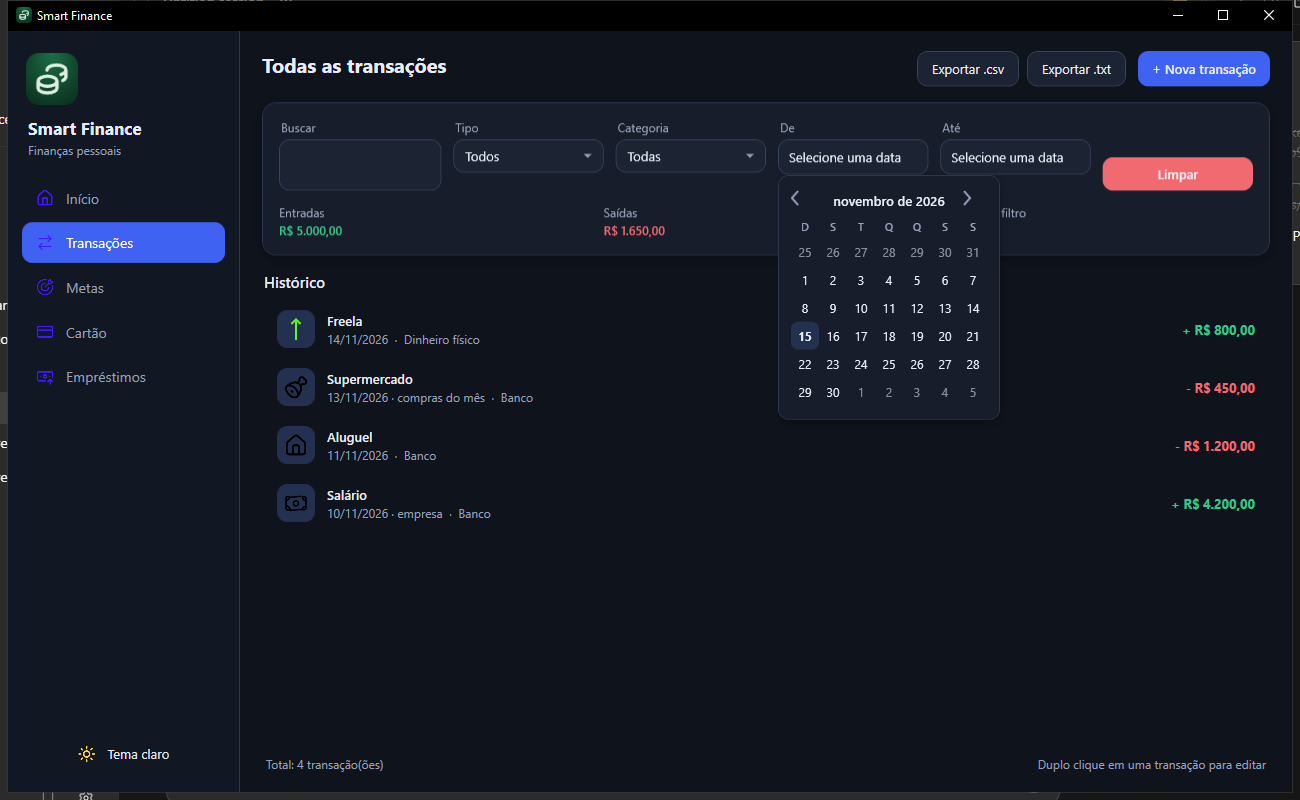
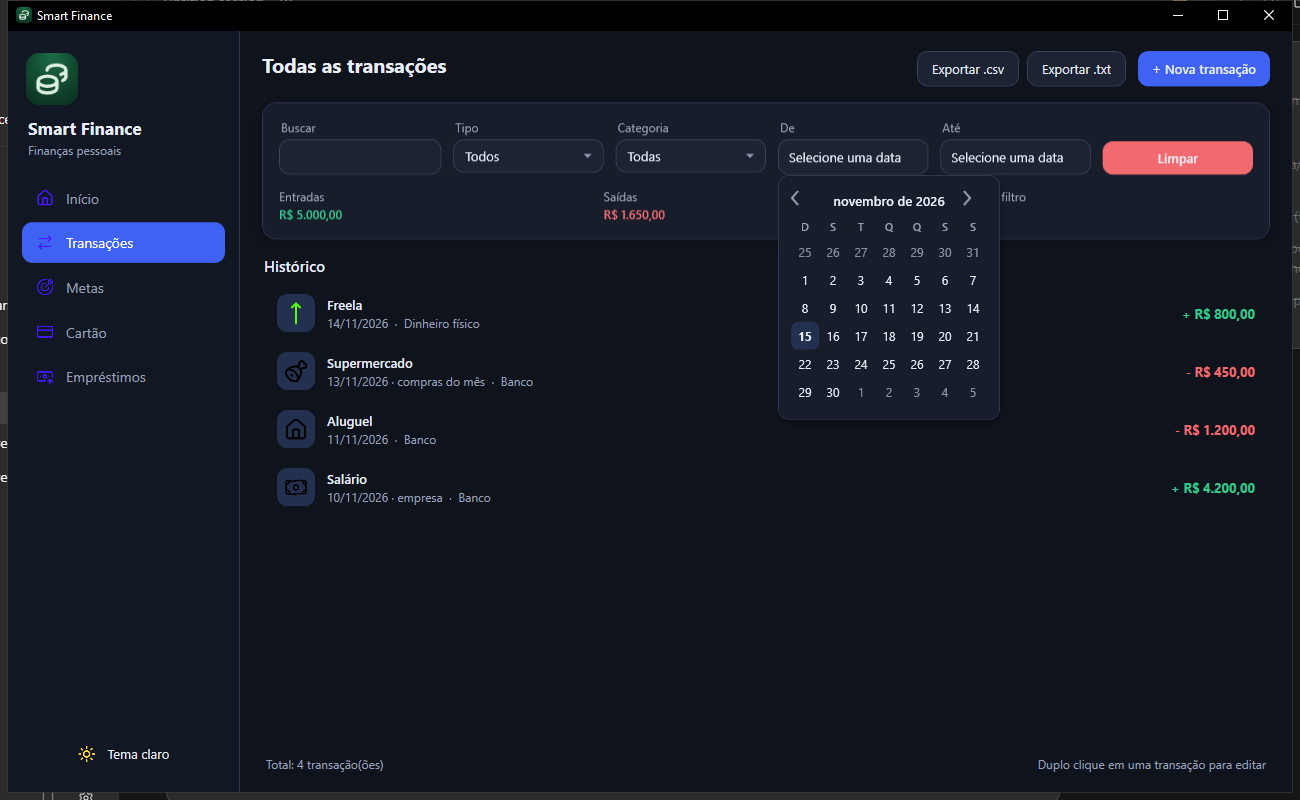
UI: uniform filter field heights and dialog button row (+ regression tests)
- TextBox template: do not re-apply Padding as Margin on PART_ContentHost;
  the internal TextBoxView already applies it, so the double application
  made single-line fields ~48px tall against ~30px of ComboBox/SeletorData
  in the same row (Buscar on the transactions screen, fields on dialogs).
- BotaoExcluir: base on BotaoSecundario (field look with border, red text)
  instead of the transparent button style, so Excluir sits on the same
  line and with the same size as Cancelar/Salvar in edit dialogs.
- AlinhamentoTests: UIA rectangle assertions for the filter row heights/
  alignment and for the edit-dialog button line (excluded from nothing;
  transaction is created through the UI because second-connection seeds
  are invisible to the app's open WAL connection).
- CapturaTests: pixel assertions on the calendar captures (popup card,
  today cell, date field) in both themes; capture the edit dialog too.

diff --git a/src/SmartFinance/Themes/Global.xaml b/src/SmartFinance/Themes/Global.xaml
@@ -151,7 +151,9 @@
         </Setter>
     </Style>
 
-    <Style x:Key="BotaoExcluir" TargetType="Button" BasedOn="{StaticResource {x:Type Button}}">
+    <!-- Excluir nos diálogos: mesmo tamanho/linha dos outros botões (visual de
+         campo, como BotaoSecundario) com texto vermelho para ação destrutiva. -->
+    <Style x:Key="BotaoExcluir" TargetType="Button" BasedOn="{StaticResource BotaoSecundario}">
         <Setter Property="Foreground" Value="{DynamicResource BrushSaida}" />
     </Style>
 
@@ -279,8 +281,11 @@
                             BorderBrush="{TemplateBinding BorderBrush}"
                             BorderThickness="1"
                             CornerRadius="10">
-                        <ScrollViewer x:Name="PART_ContentHost" Margin="{TemplateBinding Padding}"
-                                      VerticalAlignment="Center" Focusable="False" />
+                        <!-- Sem Margin=Padding: o TextBoxView interno já aplica o
+                             Padding do controle; aplicá-lo aqui também dobraria o
+                             espaçamento e deixaria o campo mais alto que os outros
+                             (ComboBox/SeletorData) da mesma linha. -->
+                        <ScrollViewer x:Name="PART_ContentHost" VerticalAlignment="Center" Focusable="False" />
                     </Border>
                     <ControlTemplate.Triggers>
                         <Trigger Property="IsMouseOver" Value="True">

diff --git a/tests/SmartFinance.GuiTests/AlinhamentoTests.cs b/tests/SmartFinance.GuiTests/AlinhamentoTests.cs
@@ -1,0 +1,157 @@
+using FlaUI.Core.AutomationElements;
+using FlaUI.Core.Definitions;
+using FlaUI.Core.Tools;
+using Xunit;
+
+namespace SmartFinance.GuiTests;
+
+/// <summary>
+/// Regressão estrutural de layout (medições de retângulo UIA, independentes de
+/// tema): os campos da linha de filtros da tela de transações devem ter a
+/// mesma altura e alinhamento — o campo Buscar chegou a ficar ~48px contra
+/// ~30px dos demais (padding aplicado duas vezes no template de TextBox) —,
+/// e os botões do diálogo de edição (Excluir, Cancelar e Salvar) devem
+/// compartilhar a mesma linha.
+/// </summary>
+[Trait("Category", "GUI")]
+public class AlinhamentoTests : IClassFixture<GuiTests.AppFixture>, IDisposable
+{
+    /// <summary>Tolerância entre controles diferentes: a renderização interna
+    /// de TextBox/ComboBox difere em 1-2px; regressões reais são de 10px+.</summary>
+    private const double Tolerancia = 2.0;
+
+    private readonly GuiTests.AppFixture _fx;
+
+    public AlinhamentoTests(GuiTests.AppFixture fx) => _fx = fx;
+
+    [Fact]
+    public void CamposDoFiltro_MesmaAlturaEAlinhamento()
+    {
+        Navegar("NavTransacoes");
+
+        var busca = RetanguloDaJanela("CampoBusca");
+        var tipo = RetanguloDaJanela("ComboTipo");
+        var categoria = RetanguloDaJanela("ComboCategoria");
+        var de = RetanguloDaJanela("DataInicio");
+        var ate = RetanguloDaJanela("DataFim");
+
+        foreach (var (nome, ret) in new[] { ("Tipo", tipo), ("Categoria", categoria), ("De", de), ("Até", ate) })
+        {
+            Assert.True(Math.Abs(ret.Height - busca.Height) <= Tolerancia,
+                $"{nome} tem {ret.Height}px de altura; Buscar tem {busca.Height}px");
+            Assert.True(Math.Abs(ret.Y - busca.Y) <= Tolerancia,
+                $"{nome} começa em Y={ret.Y}; Buscar em Y={busca.Y}");
+        }
+    }
+
+    [Fact]
+    public void BotoesDoDialogoEdicao_NaMesmaLinha()
+    {
+        Navegar("NavTransacoes");
+        CriarTransacaoViaUi();
+        var dialogo = AbrirDialogoEdicao();
+
+        var excluir = RetanguloDoDialogo(dialogo, "BotaoExcluir");
+        var cancelar = RetanguloDoDialogo(dialogo, null, "Cancelar");
+        var salvar = RetanguloDoDialogo(dialogo, null, "Atualizar", "Salvar");
+
+        foreach (var (nome, ret) in new[] { ("Cancelar", cancelar), ("Salvar", salvar) })
+        {
+            Assert.True(Math.Abs(ret.Height - excluir.Height) <= Tolerancia,
+                $"{nome} tem {ret.Height}px de altura; Excluir tem {excluir.Height}px");
+            Assert.True(Math.Abs(ret.Y - excluir.Y) <= Tolerancia,
+                $"{nome} começa em Y={ret.Y}; Excluir em Y={excluir.Y}");
+        }
+    }
+
+    // ── apoio ─────────────────────────────────────────────────────────────
+
+    private void Navegar(string navId)
+    {
+        var botao = Retry.WhileNull(() => _fx.Janela.FindFirstDescendant(cf => cf.ByAutomationId(navId)),
+            TimeSpan.FromSeconds(10), ignoreException: true).Result!;
+
+        _fx.Janela.SetForeground();
+        Thread.Sleep(300);
+        botao.Click();
+        Thread.Sleep(700);
+    }
+
+    /// <summary>Cria uma transação pela própria UI (o banco do fixture nasce
+    /// vazio; semear por segunda conexão SQLite não é visível para a conexão
+    /// WAL já aberta pelo aplicativo).</summary>
+    private void CriarTransacaoViaUi()
+    {
+        var botaoNova = Retry.WhileNull(() => _fx.Janela.FindFirstDescendant(cf => cf.ByName("+ Nova transação")),
+            TimeSpan.FromSeconds(10), ignoreException: true).Result
+            ?? throw new InvalidOperationException("botão '+ Nova transação' não encontrado");
+        botaoNova.AsButton().Invoke();
+
+        var dialogo = Retry.WhileNull(() => _fx.Janela.ModalWindows.FirstOrDefault(),
+            TimeSpan.FromSeconds(5), ignoreException: true).Result
+            ?? throw new InvalidOperationException("diálogo de nova transação não abriu");
+
+        Retry.WhileNull(() => dialogo.FindFirstDescendant(cf => cf.ByAutomationId("CampoValor")),
+            TimeSpan.FromSeconds(5), ignoreException: true).Result!
+            .AsTextBox().Text = "42,50";
+
+        var categoria = dialogo.FindFirstDescendant(cf => cf.ByAutomationId("ComboCategoria"))!.AsComboBox();
+        categoria.Expand();
+        categoria.Select(0);
+
+        dialogo.FindFirstDescendant(cf => cf.ByAutomationId("BotaoSalvar"))!
+            .AsButton().Invoke();
+
+        Retry.WhileTrue(() => _fx.DialogoAtivo() is not null, TimeSpan.FromSeconds(5));
+    }
+
+    private FlaUI.Core.AutomationElements.Window AbrirDialogoEdicao()
+    {
+        var primeiraLinha = Retry.WhileNull(
+                () => _fx.Janela.FindFirstDescendant(cf => cf.ByAutomationId("ListaTransacoes"))
+                    .FindAllDescendants(cf => cf.ByControlType(ControlType.ListItem))
+                    .FirstOrDefault(),
+            TimeSpan.FromSeconds(5), ignoreException: true).Result
+            ?? throw new InvalidOperationException("nenhuma transação na lista para editar");
+
+        // duplo clique real abre a edição (MouseDoubleClick da lista)
+        var retangulo = primeiraLinha.BoundingRectangle;
+        FlaUI.Core.Input.Mouse.MoveTo((int)(retangulo.X + retangulo.Width / 2), (int)(retangulo.Y + retangulo.Height / 2));
+        FlaUI.Core.Input.Mouse.DoubleClick(FlaUI.Core.Input.MouseButton.Left);
+
+        return Retry.WhileNull(() => _fx.Janela.ModalWindows.FirstOrDefault(),
+            TimeSpan.FromSeconds(5), ignoreException: true).Result
+            ?? throw new InvalidOperationException("diálogo de edição não abriu");
+    }
+
+    private System.Drawing.Rectangle RetanguloDaJanela(string automationId)
+    {
+        var elemento = Retry.WhileNull(() => _fx.Janela.FindFirstDescendant(cf => cf.ByAutomationId(automationId)),
+            TimeSpan.FromSeconds(10), ignoreException: true).Result
+            ?? throw new InvalidOperationException($"'{automationId}' não encontrado");
+        return elemento.BoundingRectangle;
+    }
+
+    private System.Drawing.Rectangle RetanguloDoDialogo(
+        FlaUI.Core.AutomationElements.Window dialogo, string? automationId, params string[] nomes)
+    {
+        var elemento = Retry.WhileNull(() => automationId is not null
+                ? dialogo.FindFirstDescendant(cf => cf.ByAutomationId(automationId))
+                : nomes.Select(n => dialogo.FindFirstDescendant(cf => cf.ByName(n)))
+                    .FirstOrDefault(e => e is not null),
+            TimeSpan.FromSeconds(10), ignoreException: true).Result
+            ?? throw new InvalidOperationException($"botão não encontrado no diálogo ({automationId ?? string.Join('/', nomes)})");
+        return elemento.BoundingRectangle;
+    }
+
+    public void Dispose()
+    {
+        try
+        {
+            _fx.Janela.ModalWindows.FirstOrDefault()?.Close();
+        }
+        catch
+        {
+        }
+    }
+}

diff --git a/tests/SmartFinance.GuiTests/CapturaTests.cs b/tests/SmartFinance.GuiTests/CapturaTests.cs
@@ -85,9 +85,11 @@ public class CapturaTests : IDisposable
     {
         AplicarTema("escuro");
         CapturarDialogos("escuro");
+        CapturarDialogoEdicao("escuro");
 
         AplicarTema("claro");
         CapturarDialogos("claro");
+        CapturarDialogoEdicao("claro");
 
         File.WriteAllText(_caminhoConfig, _configOriginal);
     }
@@ -136,6 +138,59 @@ public class CapturaTests : IDisposable
 
     // ── apoio ─────────────────────────────────────────────────────────────
 
+    /// <summary>
+    /// Regressão de contraste (o calendário chegou a ficar transparente/ilegível
+    /// no tema escuro): amostra pixels da captura recém-gerada e exige as cores
+    /// da paleta no cartão do popup, na célula do dia de hoje e no campo de data.
+    /// </summary>
+    private void VerificarCoresDoCalendario(string sufixo, AutomationElement popup, AutomationElement seletor)
+    {
+        bool escuro = sufixo == "escuro";
+        var corCard = escuro ? System.Drawing.Color.FromArgb(0x17, 0x1D, 0x2B) : System.Drawing.Color.FromArgb(0xFF, 0xFF, 0xFF);
+        var corHoje = escuro ? System.Drawing.Color.FromArgb(0x24, 0x30, 0x4F) : System.Drawing.Color.FromArgb(0xE6, 0xEB, 0xFF);
+        var corCampo = escuro ? System.Drawing.Color.FromArgb(0x1C, 0x24, 0x34) : System.Drawing.Color.FromArgb(0xFF, 0xFF, 0xFF);
+
+        // Capture() do popup devolve a região da janela principal: capturar a
+        // própria janela garante uma única referência de coordenadas
+        using var captura = _janela.Capture();
+        var retJanela = _janela.BoundingRectangle;
+
+        // margem interna do cartão do popup (padding entre a borda e a grade)
+        var calendario = popup.FindFirstDescendant(cf => cf.ByControlType(FlaUI.Core.Definitions.ControlType.Calendar))
+            ?? throw new InvalidOperationException("calendário não encontrado no popup");
+        var retCalendario = calendario.BoundingRectangle;
+        Assert.Equal(corCard, PixelDoBitmap(captura, retJanela,
+            retCalendario.Left - 4, retCalendario.Top + retCalendario.Height / 2));
+
+        // célula do dia de hoje: fundo BrushAccentSoft (amostra fora do número)
+        var hoje = DateTime.Today.Day.ToString();
+        var celulaHoje = popup.FindFirstDescendant(cf => cf.ByName(hoje))
+            ?? throw new InvalidOperationException($"célula do dia {hoje} não encontrada no calendário");
+        var retHoje = celulaHoje.BoundingRectangle;
+        Assert.Equal(corHoje, PixelDoBitmap(captura, retJanela,
+            retHoje.Left + retHoje.Width * 0.12, retHoje.Top + retHoje.Height / 2));
+
+        // campo de data na janela principal: fundo BrushFieldBg (lado direito, sem texto)
+        var botaoCampo = seletor.FindFirstDescendant(cf => cf.ByControlType(FlaUI.Core.Definitions.ControlType.Button))
+            ?? throw new InvalidOperationException("botão de data não encontrado");
+        var retCampo = botaoCampo.BoundingRectangle;
+        Assert.Equal(corCampo, PixelDoBitmap(captura, retJanela,
+            retCampo.Right - 12, retCampo.Top + retCampo.Height / 2));
+    }
+
+    /// <summary>Amostra um pixel de tela na captura da janela, convertendo
+    /// coordenadas (com escala de DPI entre o retângulo UIA e o bitmap).</summary>
+    private static System.Drawing.Color PixelDoBitmap(
+        System.Drawing.Bitmap bitmap, System.Drawing.Rectangle janela, double xTela, double yTela)
+    {
+        double escala = bitmap.Width / janela.Width;
+        int x = (int)((xTela - janela.Left) * escala);
+        int y = (int)((yTela - janela.Top) * escala);
+        return bitmap.GetPixel(
+            Math.Min(Math.Max(x, 0), bitmap.Width - 1),
+            Math.Min(Math.Max(y, 0), bitmap.Height - 1));
+    }
+
     /// <summary>Abre o calendário do filtro de transações e fotografa o popup
     /// (janela de topo separada do processo, como em DataTransacoesTests).</summary>
     private void CapturarCalendario(string sufixo)
@@ -158,6 +213,7 @@ public class CapturaTests : IDisposable
             ?? throw new InvalidOperationException("popup do calendário não abriu");
         Thread.Sleep(400);
         CapturarJanela(popup, $"10-calendario-{sufixo}");
+        VerificarCoresDoCalendario(sufixo, popup, seletor);
 
         // visão de meses: clicar no cabeçalho ("novembro de 2026") alterna o modo
         var cabecalho = popup.FindFirstDescendant(cf => cf.ByName("novembro de 2026"));
@@ -221,6 +277,33 @@ public class CapturaTests : IDisposable
         var carteiras = AbrirDialogo("Carteiras");
         CapturarJanela(carteiras, $"09-dialogo-carteiras-{sufixo}");
         FecharDialogo(carteiras);
+    }
+
+    /// <summary>Diálogo em modo EDIÇÃO (duplo clique na lista), onde o botão
+    /// Excluir fica visível — estado não coberto pelas capturas de criação.</summary>
+    private void CapturarDialogoEdicao(string sufixo)
+    {
+        Navegar("NavTransacoes");
+        var primeiraLinha = Retry.WhileNull(
+                () => _janela.FindFirstDescendant(cf => cf.ByAutomationId("ListaTransacoes"))
+                    .FindAllDescendants(cf => cf.ByControlType(FlaUI.Core.Definitions.ControlType.ListItem))
+                    .FirstOrDefault(),
+            TimeSpan.FromSeconds(5), ignoreException: true).Result
+            ?? throw new InvalidOperationException("nenhuma transação na lista para editar");
+
+        // duplo clique abre a edição (MouseDoubleClick da lista)
+        var retangulo = primeiraLinha.BoundingRectangle;
+        FlaUI.Core.Input.Mouse.MoveTo((int)(retangulo.X + retangulo.Width / 2), (int)(retangulo.Y + retangulo.Height / 2));
+        FlaUI.Core.Input.Mouse.DoubleClick(FlaUI.Core.Input.MouseButton.Left);
+
+        var dialogo = Retry.WhileNull(() => _janela.ModalWindows.FirstOrDefault(),
+            TimeSpan.FromSeconds(5), ignoreException: true).Result
+            ?? throw new InvalidOperationException("diálogo de edição não abriu");
+        Thread.Sleep(400);
+        CapturarJanela(dialogo, $"12-dialogo-editar-transacao-{sufixo}");
+
+        dialogo.FindFirstDescendant(cf => cf.ByName("Cancelar"))?.AsButton().Invoke();
+        Thread.Sleep(400);
     }
 
     /// <summary>Alterna o tema pelo próprio app até alcançar o desejado
